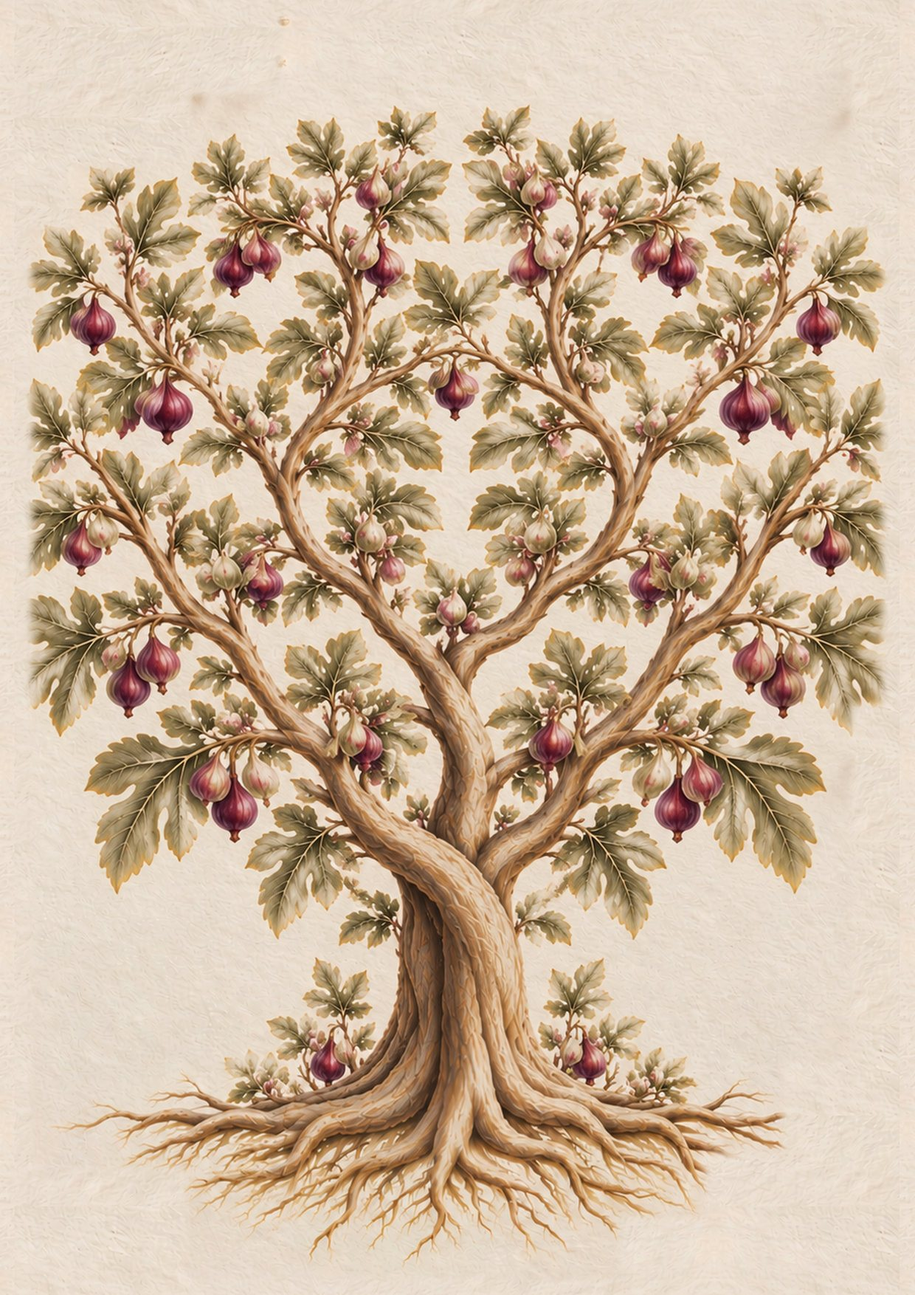
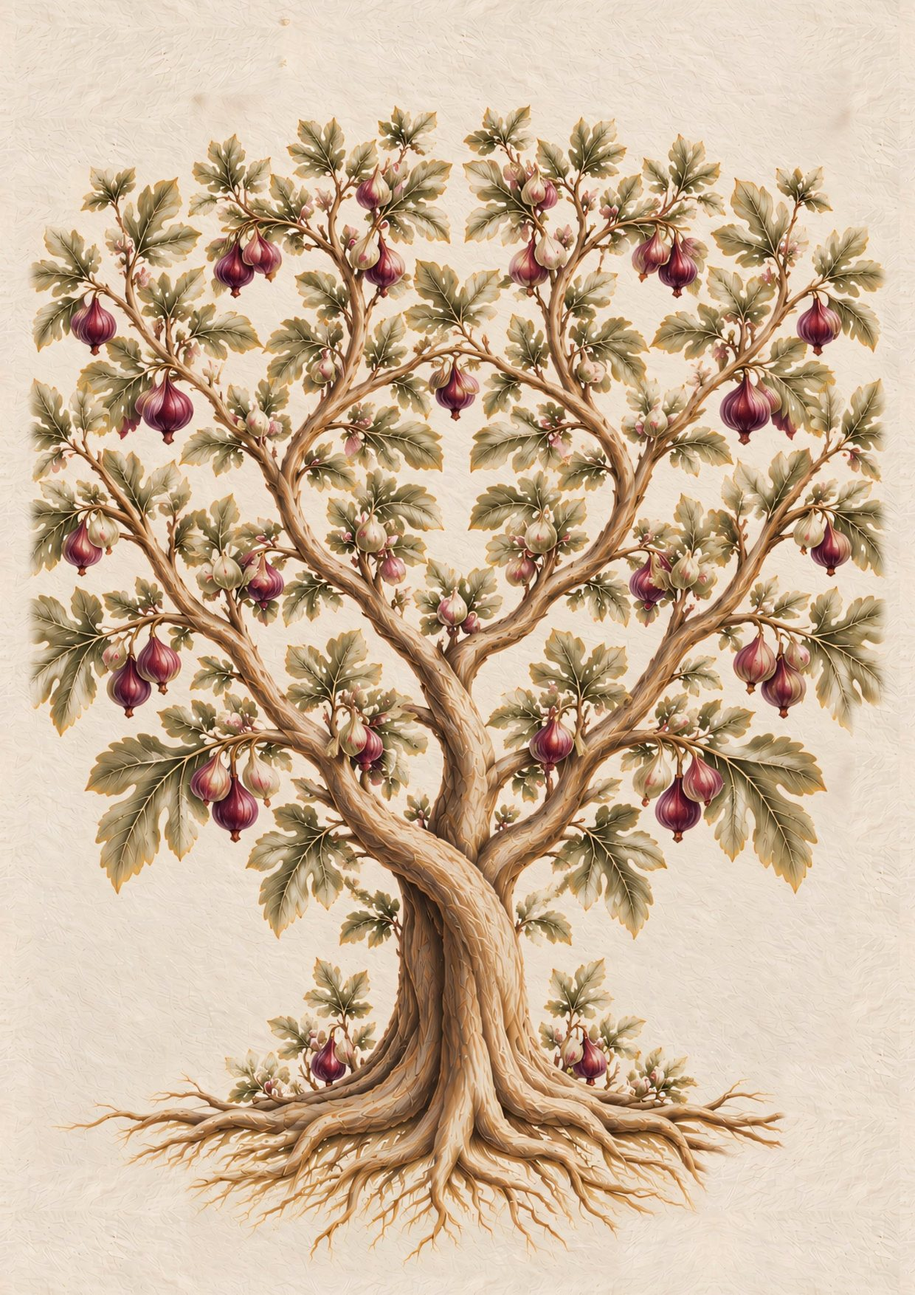
Figuier : image plus nette (version agrandie par Laura)
Claude-Session: https://claude.ai/code/session_01Jp8dGRbiouwYvgxCdYEgCU

diff --git a/genosociogramme.html b/genosociogramme.html
@@ -825,7 +825,7 @@
   })();
   </script>
   <script src="assets/export-gedcom.js?v=2026-10-09"></script>
-  <script src="assets/arbre-encadrer.js?v=4"></script>
+  <script src="assets/arbre-encadrer.js?v=5"></script>
   <script src="assets/arbre-encadrer-page.js?v=4"></script>
 
   <script>
